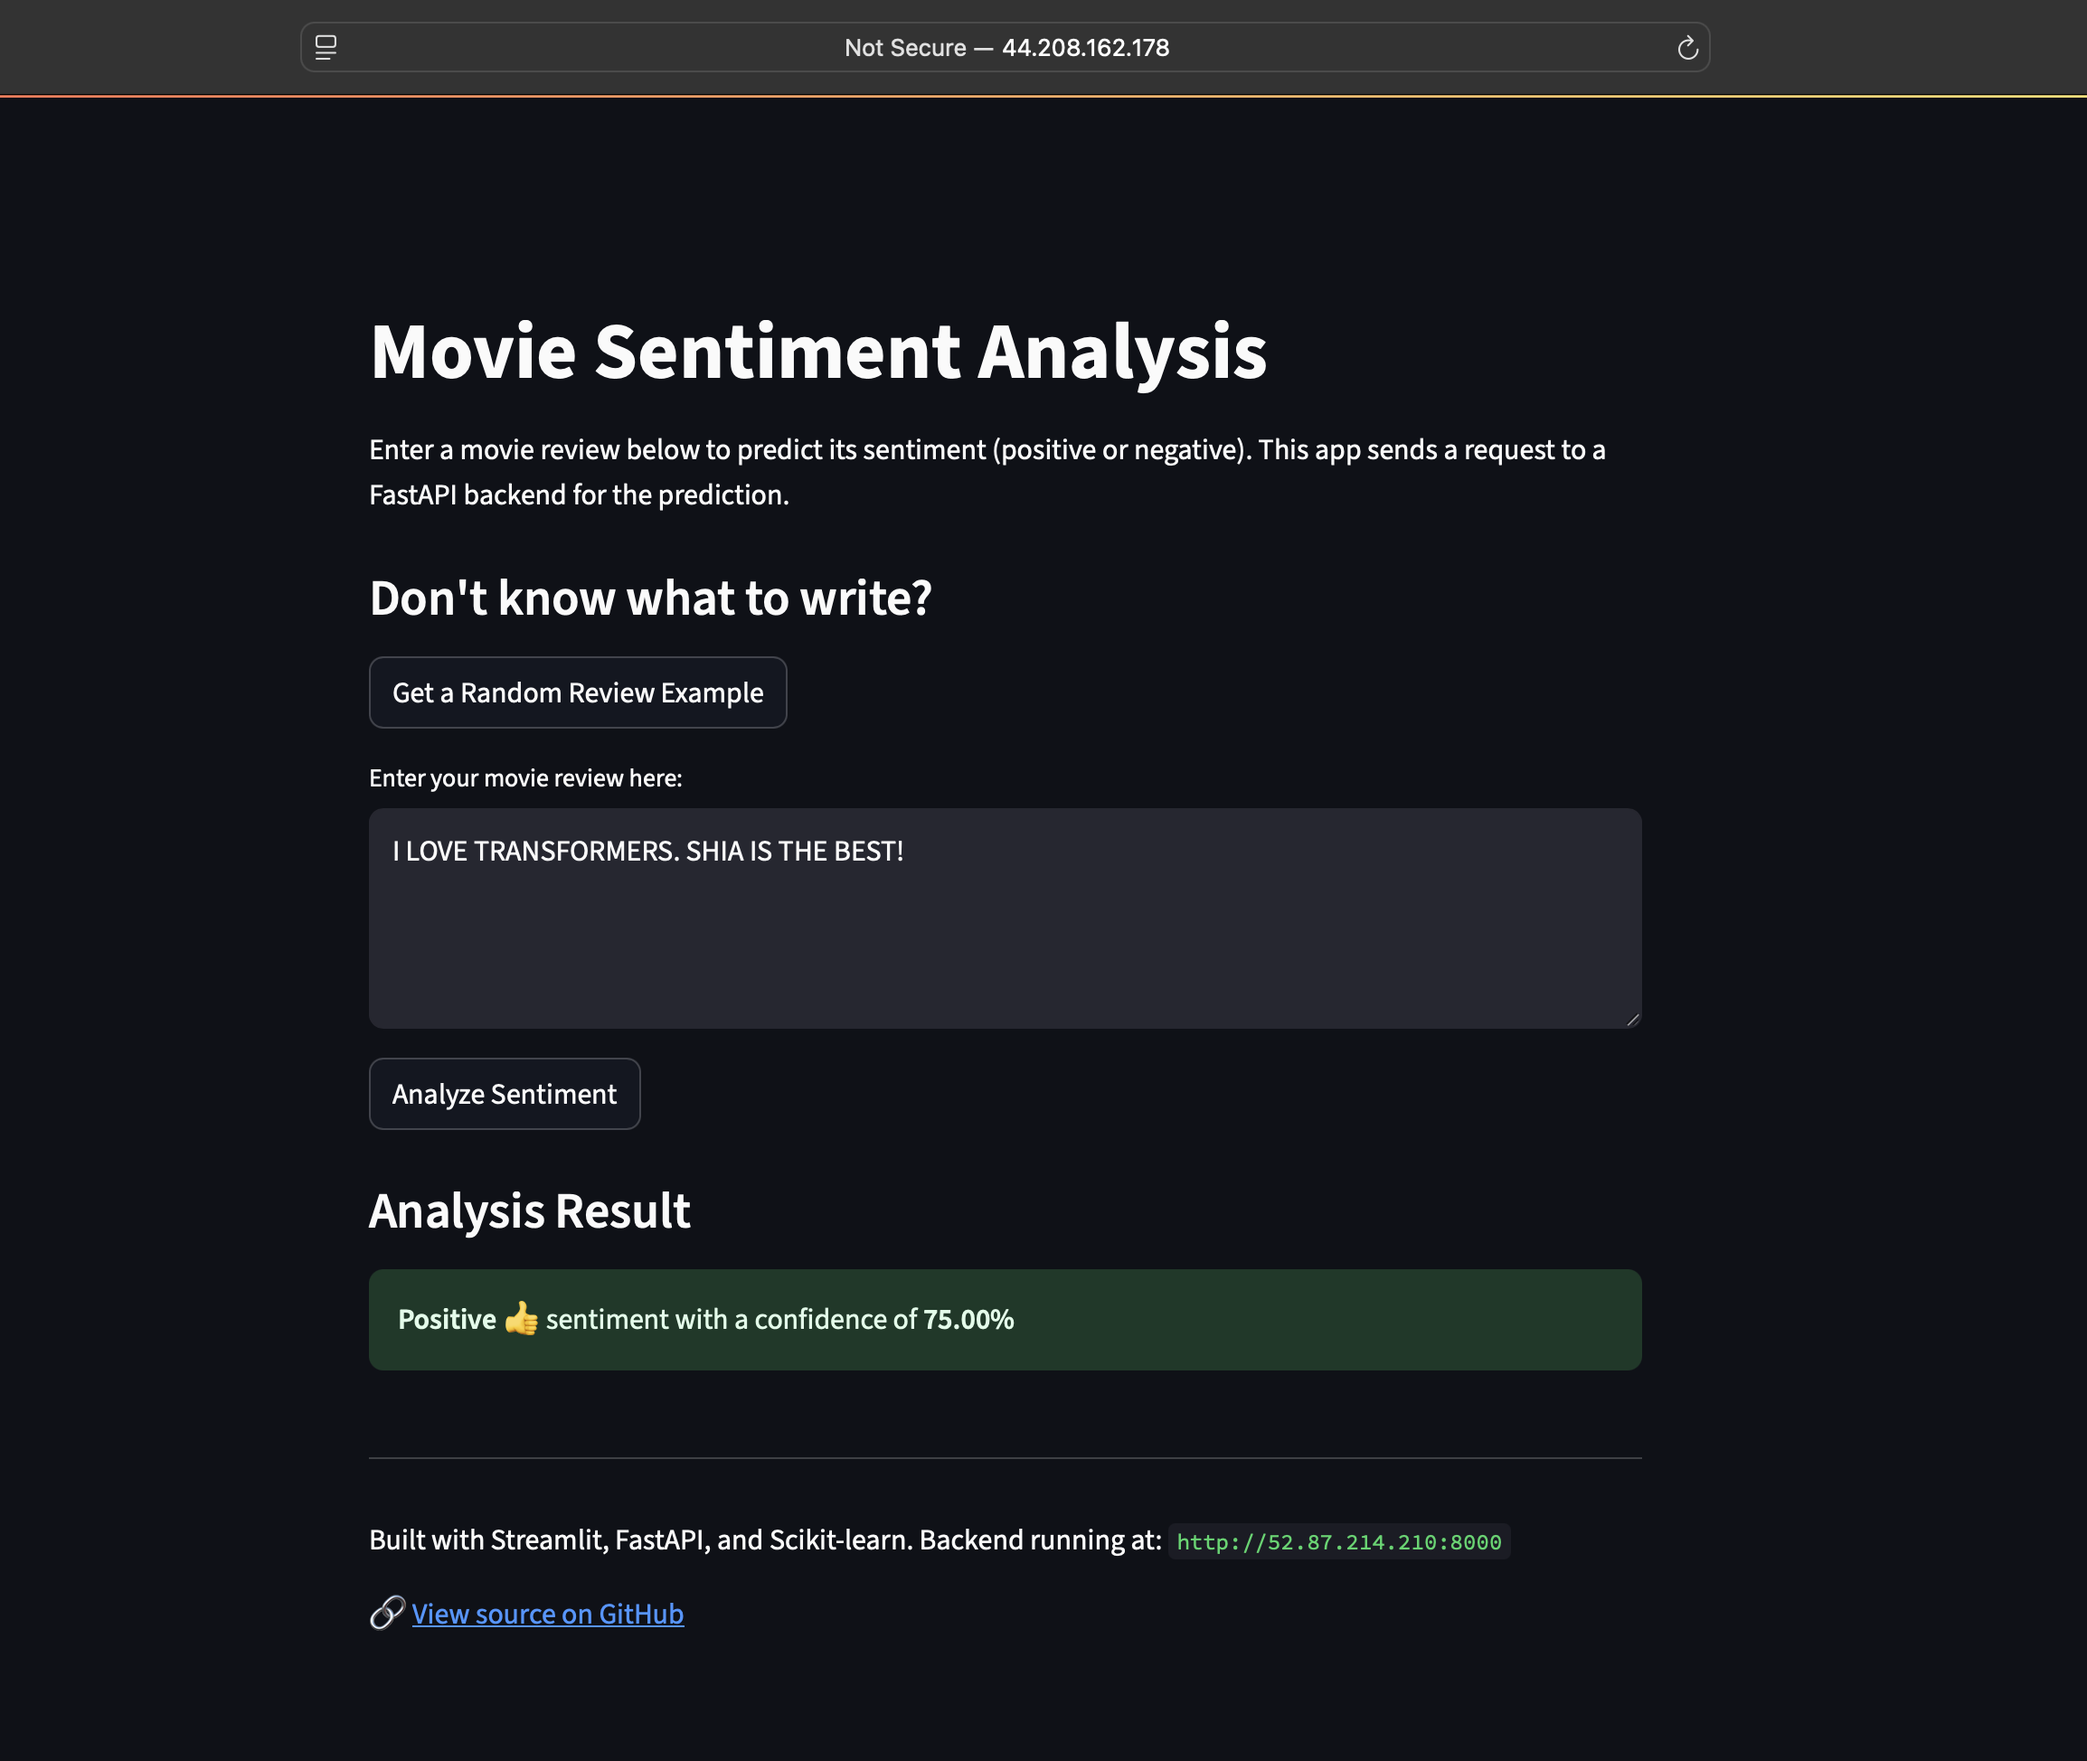
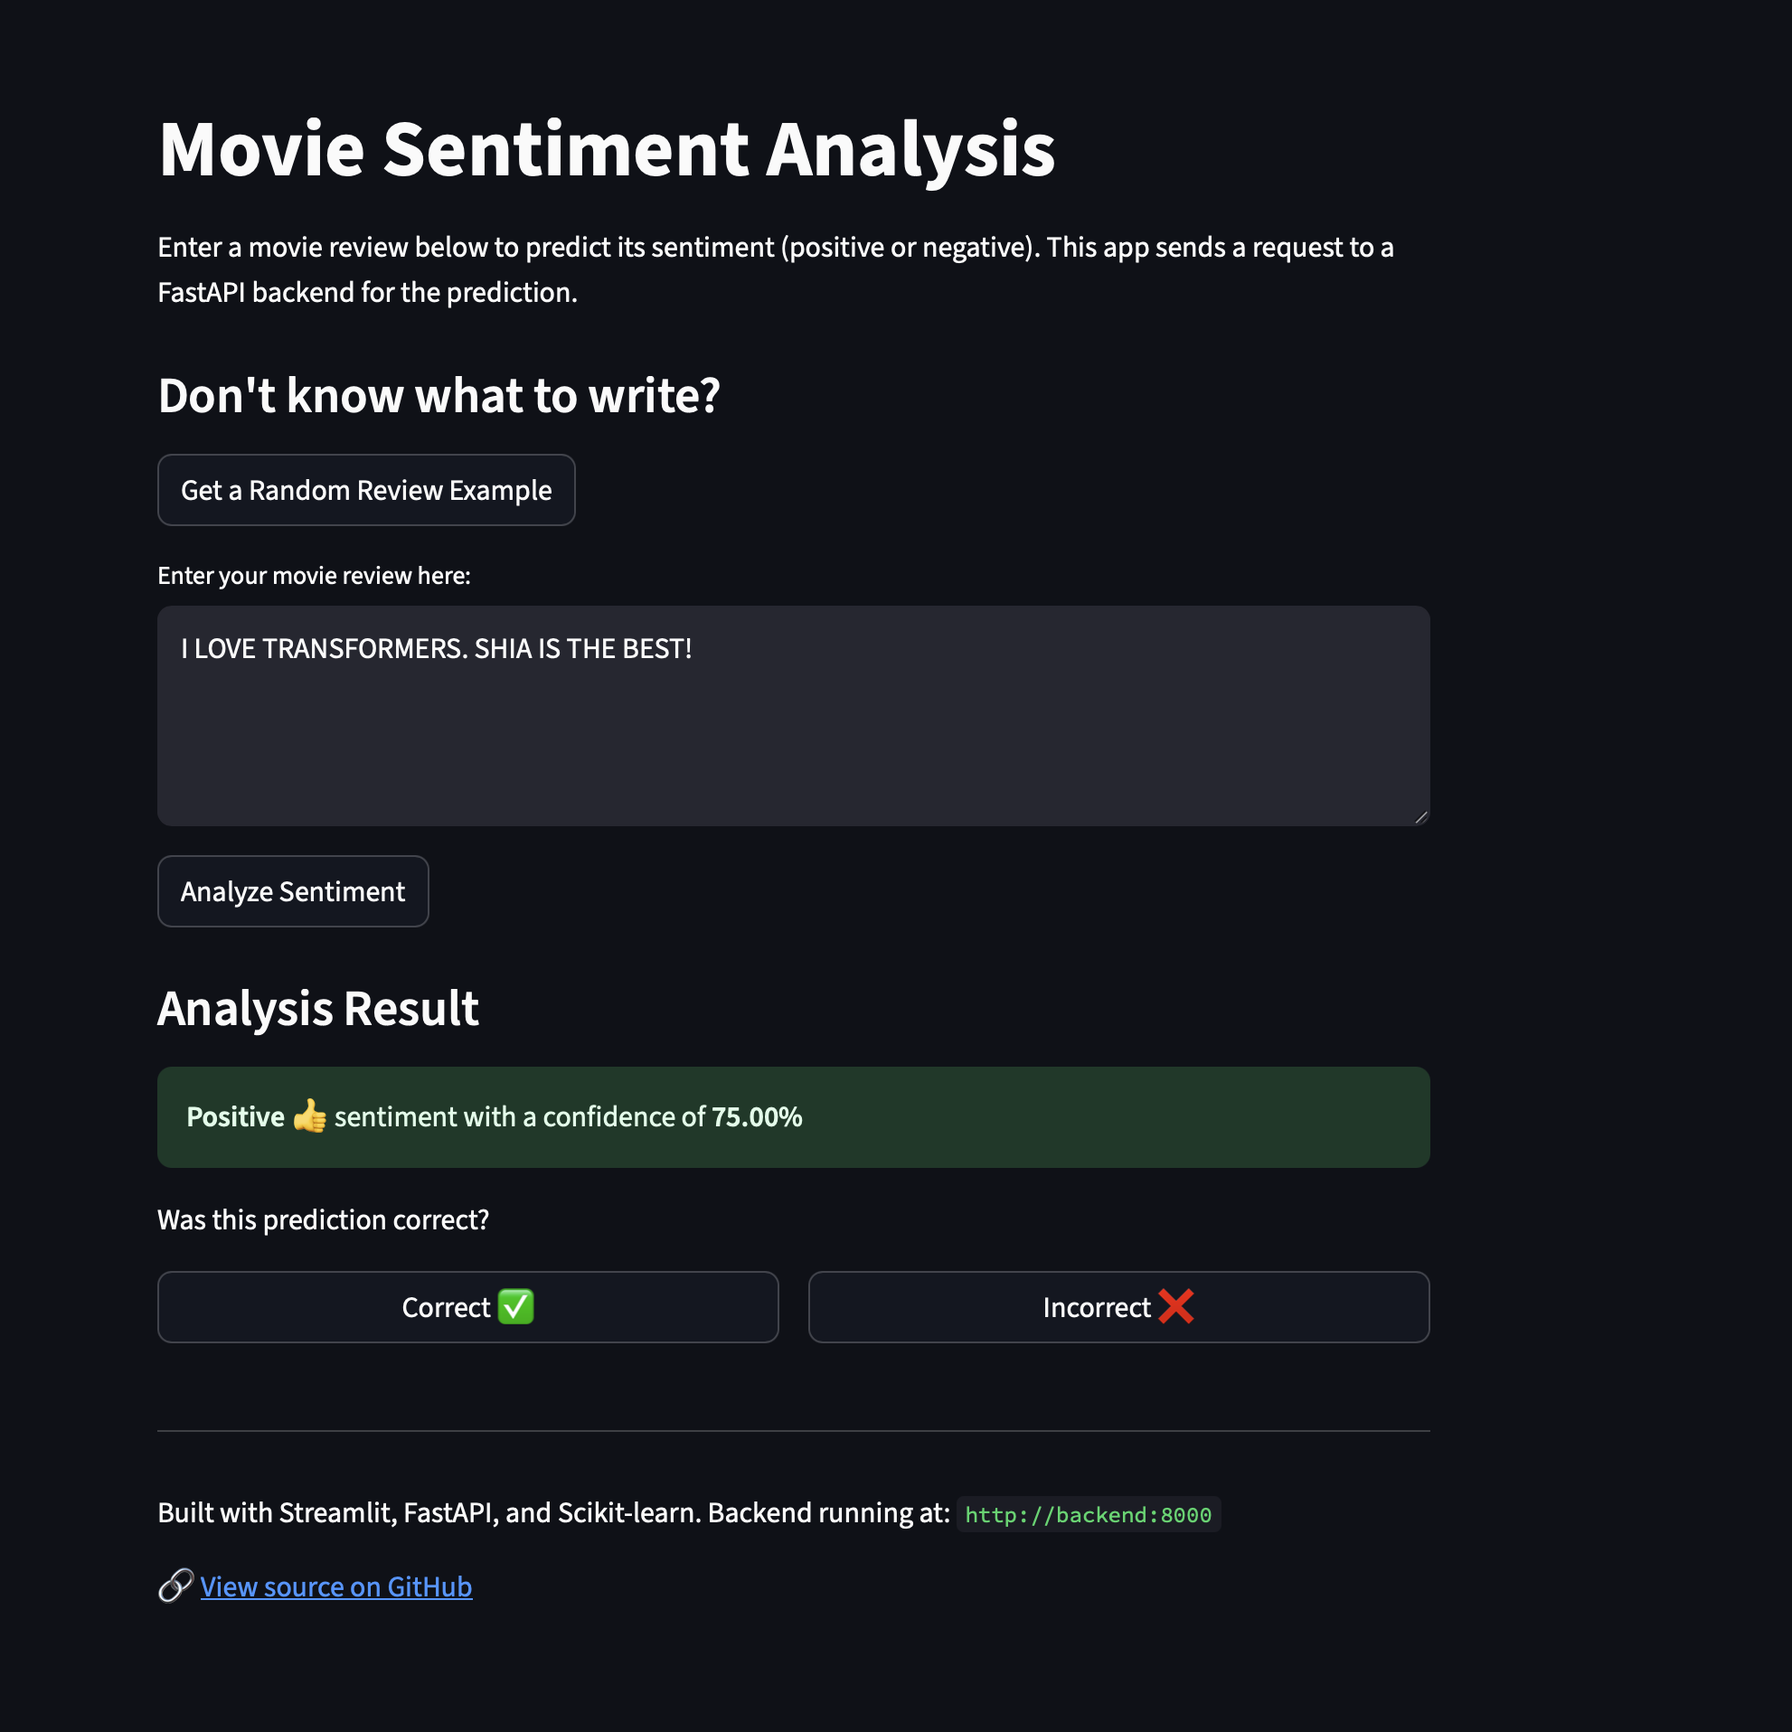
Add eval task, curl examples, and enhance docs

diff --git a/assignments/movie-sentiment-aws/assets/scripts/evaluator.py b/assignments/movie-sentiment-aws/assets/scripts/evaluator.py
@@ -1,0 +1,58 @@
+import requests
+import json
+import os
+
+FASTAPI_URL = "http://localhost:8000/predict"
+
+def evaluate_api():
+    """
+    Evaluates the sentiment analysis API by using the test data in `assets/data/test.json`
+    from Assignment 5.
+    """
+    script_dir = os.path.dirname(os.path.abspath(__file__))
+    test_data_path = os.path.join(script_dir, "..", "data", "test.json")
+
+    try:
+        with open(test_data_path, "r") as f:
+            test_data = json.load(f)
+    except FileNotFoundError:
+        print(f"Error: {test_data_path} not found.")
+        return
+    except json.JSONDecodeError:
+        print(f"Error: Could not decode JSON from {test_data_path}.")
+        return
+
+    url = FASTAPI_URL
+
+
+    correct_predictions = 0
+    total_predictions = len(test_data)
+
+    for item in test_data:
+        text = item.get("text")
+        true_label = item.get("true_label")
+
+        if not text or not true_label:
+            print(f"Skipping invalid item: {item}")
+            continue
+    
+        try:
+            response = requests.post(url, json={"text": text})
+            response.raise_for_status()
+            predicted_sentiment = response.json().get("sentiment")
+
+            if predicted_sentiment == true_label:
+                correct_predictions += 1
+        except requests.exceptions.RequestException as e:
+            print(f"Error sending request for text: '{text}'. Error: {e}")
+        except Exception as e:
+            print(f"An unexpected error occurred: {e}")
+
+    if total_predictions > 0:
+        accuracy = (correct_predictions / total_predictions) * 100
+        print(f"Accuracy: {accuracy:.2f}% ({correct_predictions}/{total_predictions})")
+    else:
+        print("No test data found to evaluate.")
+
+if __name__ == "__main__":
+    evaluate_api()

diff --git a/assignments/movie-sentiment-aws/README.md b/assignments/movie-sentiment-aws/README.md
@@ -4,9 +4,7 @@ This project deploys a movie sentiment analysis application on AWS using a fully
 
 This project is structured as a multi-package monorepo using `uv` workspaces. Each application (`fastapi_backend`, `streamlit_frontend`, `sklearn_training`, `streamlit_monitoring`) has its own modules and dependencies while sharing a single `uv.lock` file at the root.
 
-## Basic Architecture
-
-This project is a MINIMAL deployment approach to serving an ML model. This is purely for learning purposes and is missing a lot of MLOps best-practices in terms of observability, re-training, CI/CD, etc.
+## AWS Architecture
 
 <img src="assets/images/architecture.png" width="1000"/>
 
@@ -18,7 +16,8 @@ This project is a MINIMAL deployment approach to serving an ML model. This is pu
 │   ├── data    # Local data stored/staged here
 │   ├── images  # Documentation images
 │   ├── logs    # App logs 
-│   └── models  # Local model stored/staged here
+│   ├── models  # Local model stored/staged here
+│   └── scripts 
 ├── config.yaml # Sets env-aware variables/paths
 ├── docker-compose.yml # Docker services configuration
 ├── pyproject.toml # Dependencies
@@ -83,6 +82,19 @@ Architecture Overview:
   - Automated deployment with Docker containers
   - CloudWatch logging
 
+## Local Architecture
+Locally, this project is orchestrated by Docker Compose. Each service is still containerized with the same exact logic/code flow as the AWS deployment and has the same overall architecture as the depicted diagram above. However, when running with the environment variable `APP_ENV=development` (automatically done in `task aws-dev:up`), the application uses the `config.yaml` to determine which local file paths to use instead of S3:
+
+```yaml
+development:
+  paths: # Local file paths
+    data: "assets/data/IMDB Dataset.csv"
+    model: "assets/models/sentiment_model.pkl"
+  prediction_logging:
+    handler: "file"
+    path: "assets/logs/prediction_logs.json"    
+```
+
 ## Local Dev Deployment 
 
 ### Prerequisites
@@ -110,16 +122,39 @@ From the root of the project (`mlops-du/`), you can use the following commands:
 
 2.  Access the Applications!
 
-    -   **Frontend URL**: [http://localhost:8501](http://localhost:8501)
-    -   **Backend API Docs**: [http://localhost:8000/docs](http://localhost:8000/docs)
-    -   **Monitoring URL**: [http://localhost:8502](http://localhost:8501)
+    - **Frontend URL**: [http://localhost:8501](http://localhost:8501)
+      - Write a review
+      - Get the predicted sentiment
+      - Provide feedback for whether the sentiment was correct or not
+    - **Monitoring URL**: [http://localhost:8502](http://localhost:8502)
+      - You can view the performance/status of the ML sentiment app here
+    - **Backend API Docs**: [http://localhost:8000/docs](http://localhost:8000/docs)
+    - Note: If you want to follow the logs of the running services without blocking your main terminal, you can run:
+      ```bash
+      task aws-dev:logs
+      ```
 
-3.  View Logs (in a separate terminal)
+3. With the services up (mainly FastAPI), you can run tests via the eval task or manually running `CURL` commands:
 
-    If you want to follow the logs of the running services without blocking your main terminal, you can run:
-
+    Using the evaluator script in `assets/scrpits/evaluator.py` via task:
     ```bash
-    task aws-dev:logs
+    task aws-dev:eval
+    ```
+
+    This should output:
+    ```bash
+    Accuracy: 91.38% (159/174)
+    ```
+
+    Using `curl` commands:
+    ```bash
+    curl http://localhost:8000/health
+
+    curl -X POST http://localhost:8000/predict -H "Content-Type: application/json" -d '{"text": "Transformers was great."}'
+
+    curl -X POST http://localhost:8000/predict_proba -H "Content-Type: application/json" -d '{"text": "Transformers was great."}'
+
+    curl http://localhost:8000/example
     ```
 
 4.  Stop and Clean Up
@@ -234,7 +269,7 @@ This will delete all the local Terraform artifacts (to release the lock and rese
 #### FastAPI Backend Docs Endpoint
 <img src="assets/images/fastapi.png" width="800"/>
 
-#### Streamlit Frontend
+#### Streamlit Frontend with Feedback for Monitoring
 <img src="assets/images/streamlit.png" width="800"/>
 
 ### Stramlit Monitoring
